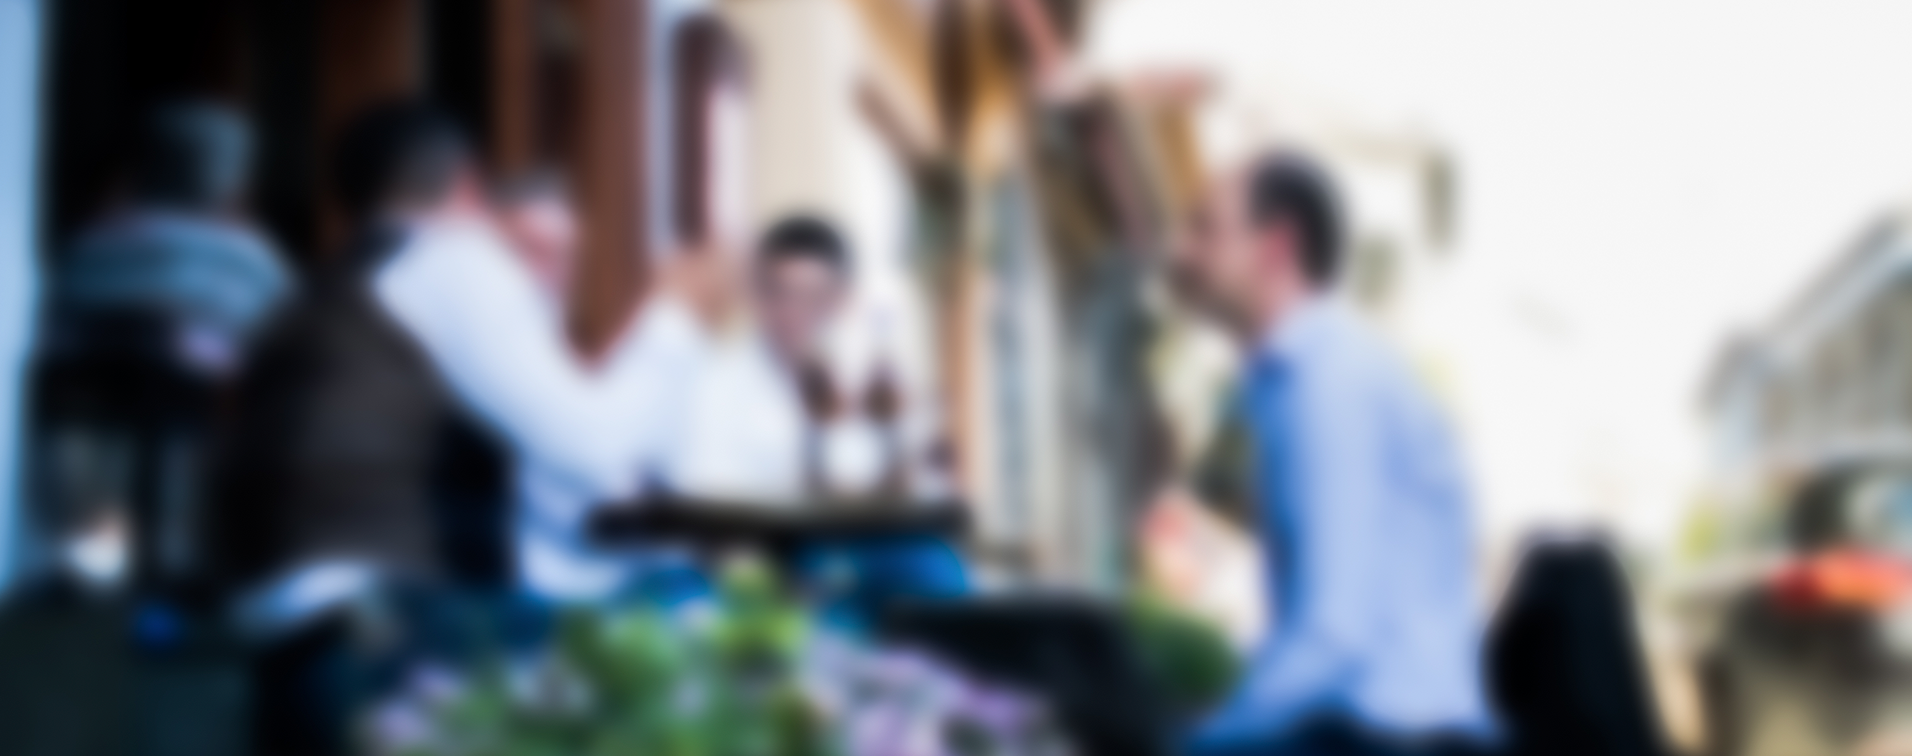
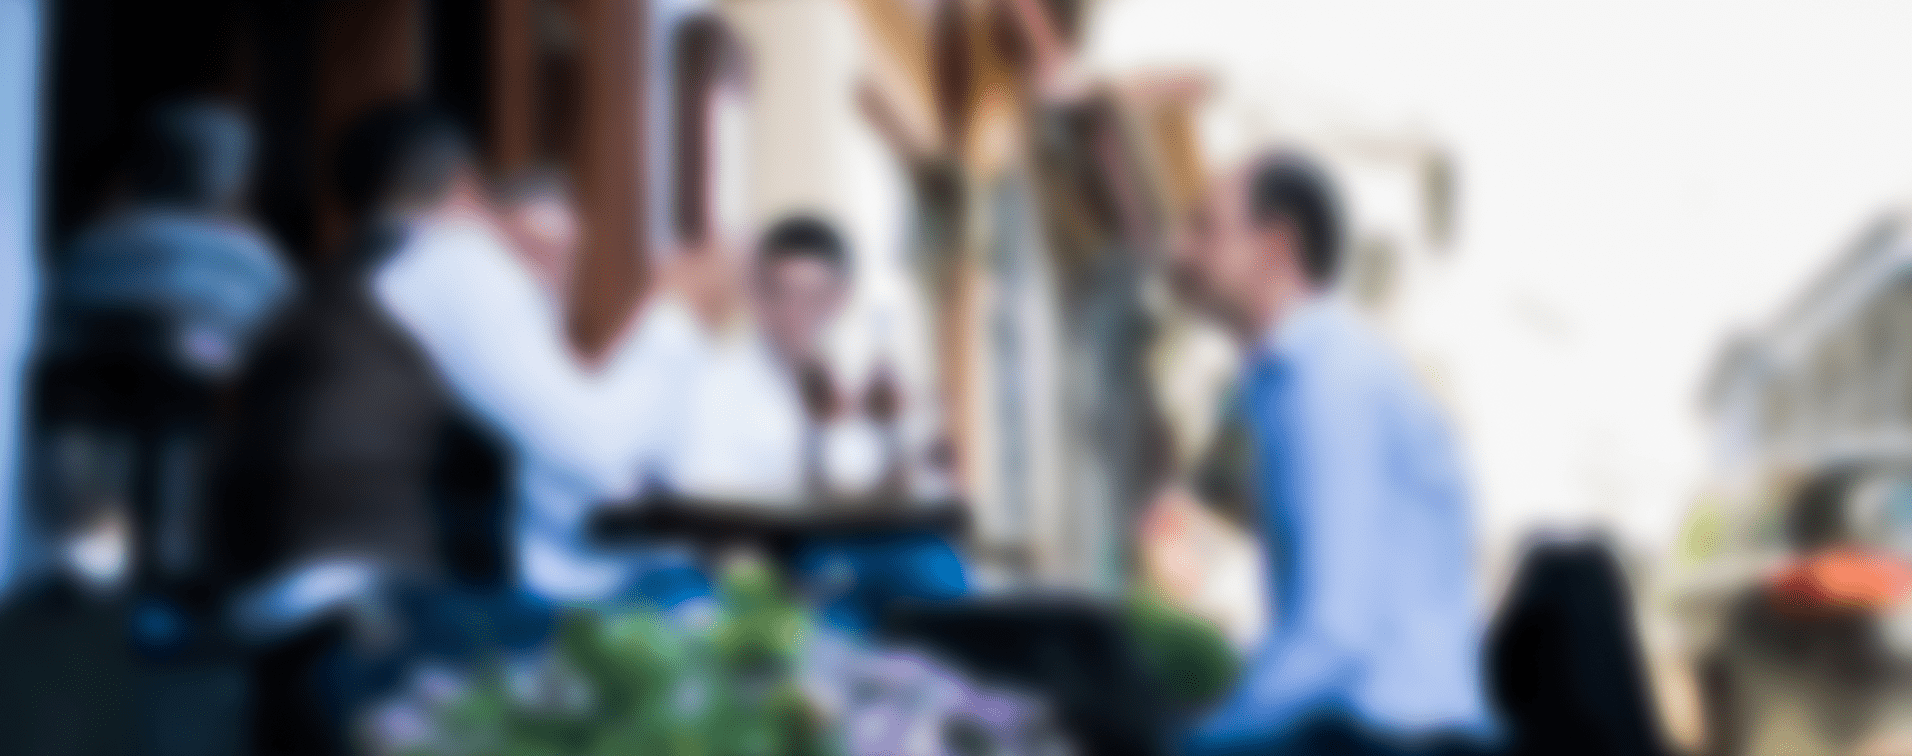
Compressed all pictures and added the correct red variable to hover btn

diff --git a/css/main.css b/css/main.css
@@ -341,7 +341,7 @@ template {
     font-weight: 400;
     font-size: 1.1em; }
     #header__nav li a:hover {
-      color: #58231E; }
+      color: #921225; }
 
 .header__content {
   display: -webkit-box;
@@ -381,7 +381,7 @@ template {
   transition: all .5s ease;
   border-radius: 4px; }
   .btn__header:hover {
-    background-color: #58231E; }
+    background-color: #921225; }
 
 .sticky {
   position: fixed;
@@ -471,7 +471,7 @@ template {
   border: 1px solid #333;
   border-radius: 10px; }
   .menucard__btn:hover {
-    background-color: #58231E;
+    background-color: #921225;
     -webkit-transition: all .5s ease;
     -o-transition: all .5s ease;
     transition: all .5s ease; }
@@ -504,7 +504,7 @@ template {
       margin-top: 30px;
       border-radius: 10px; }
       .booking__container__button:hover {
-        background-color: #58231E;
+        background-color: #921225;
         -webkit-transition: all .5s ease;
         -o-transition: all .5s ease;
         transition: all .5s ease;

diff --git a/sass/layout/_booking.scss b/sass/layout/_booking.scss
@@ -33,7 +33,7 @@
                 border-radius: 10px;
 
                 &:hover {
-                    background-color: #58231E;
+                    background-color: $red;
                     transition: all .5s ease;
                     color: $gold;
                 }

diff --git a/sass/layout/_header.scss b/sass/layout/_header.scss
@@ -46,7 +46,7 @@
 
         
         &:hover {
-            color: #58231E;
+            color: $red;
         }
     }
 }
@@ -85,7 +85,7 @@
     border-radius: 4px;
 
     &:hover {
-        background-color: #58231E;
+        background-color: $red;
     }
 }
 

diff --git a/sass/layout/_menucard.scss b/sass/layout/_menucard.scss
@@ -101,7 +101,7 @@
     border-radius: 10px;
 
     &:hover {
-        background-color: #58231E;
+        background-color: $red;
         transition: all .5s ease;
     }
 }
